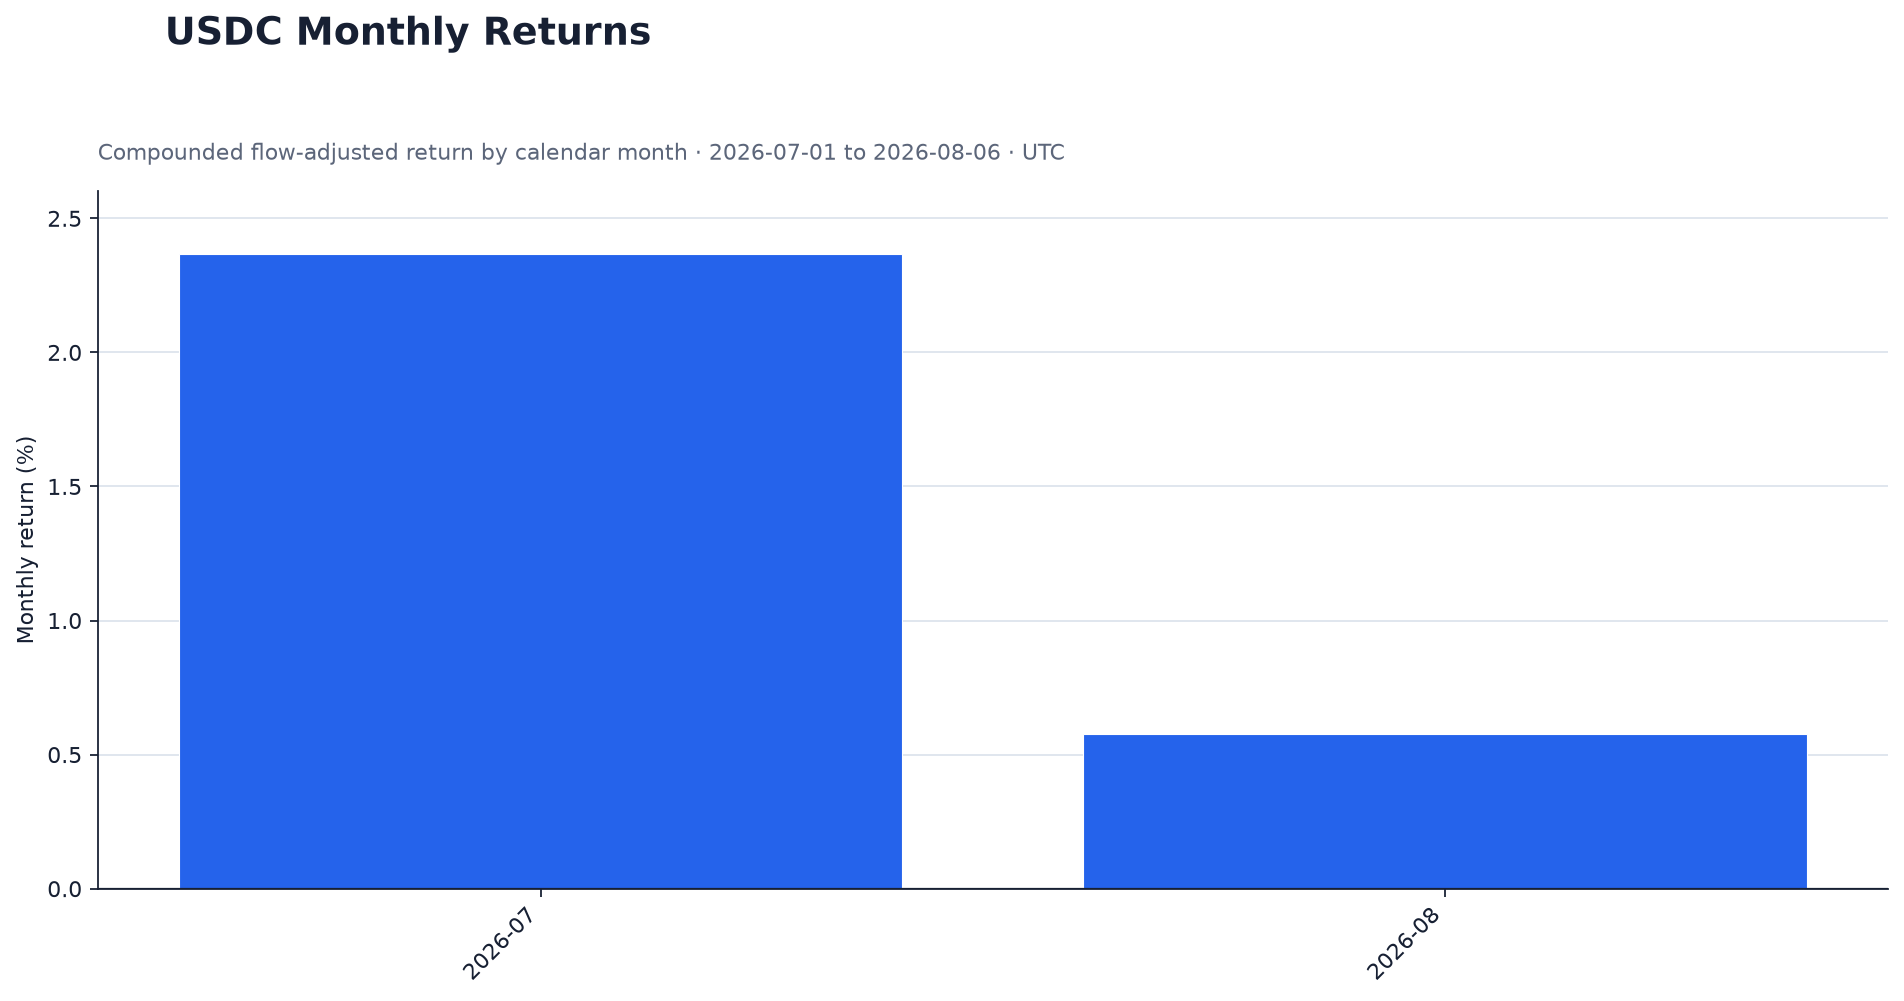
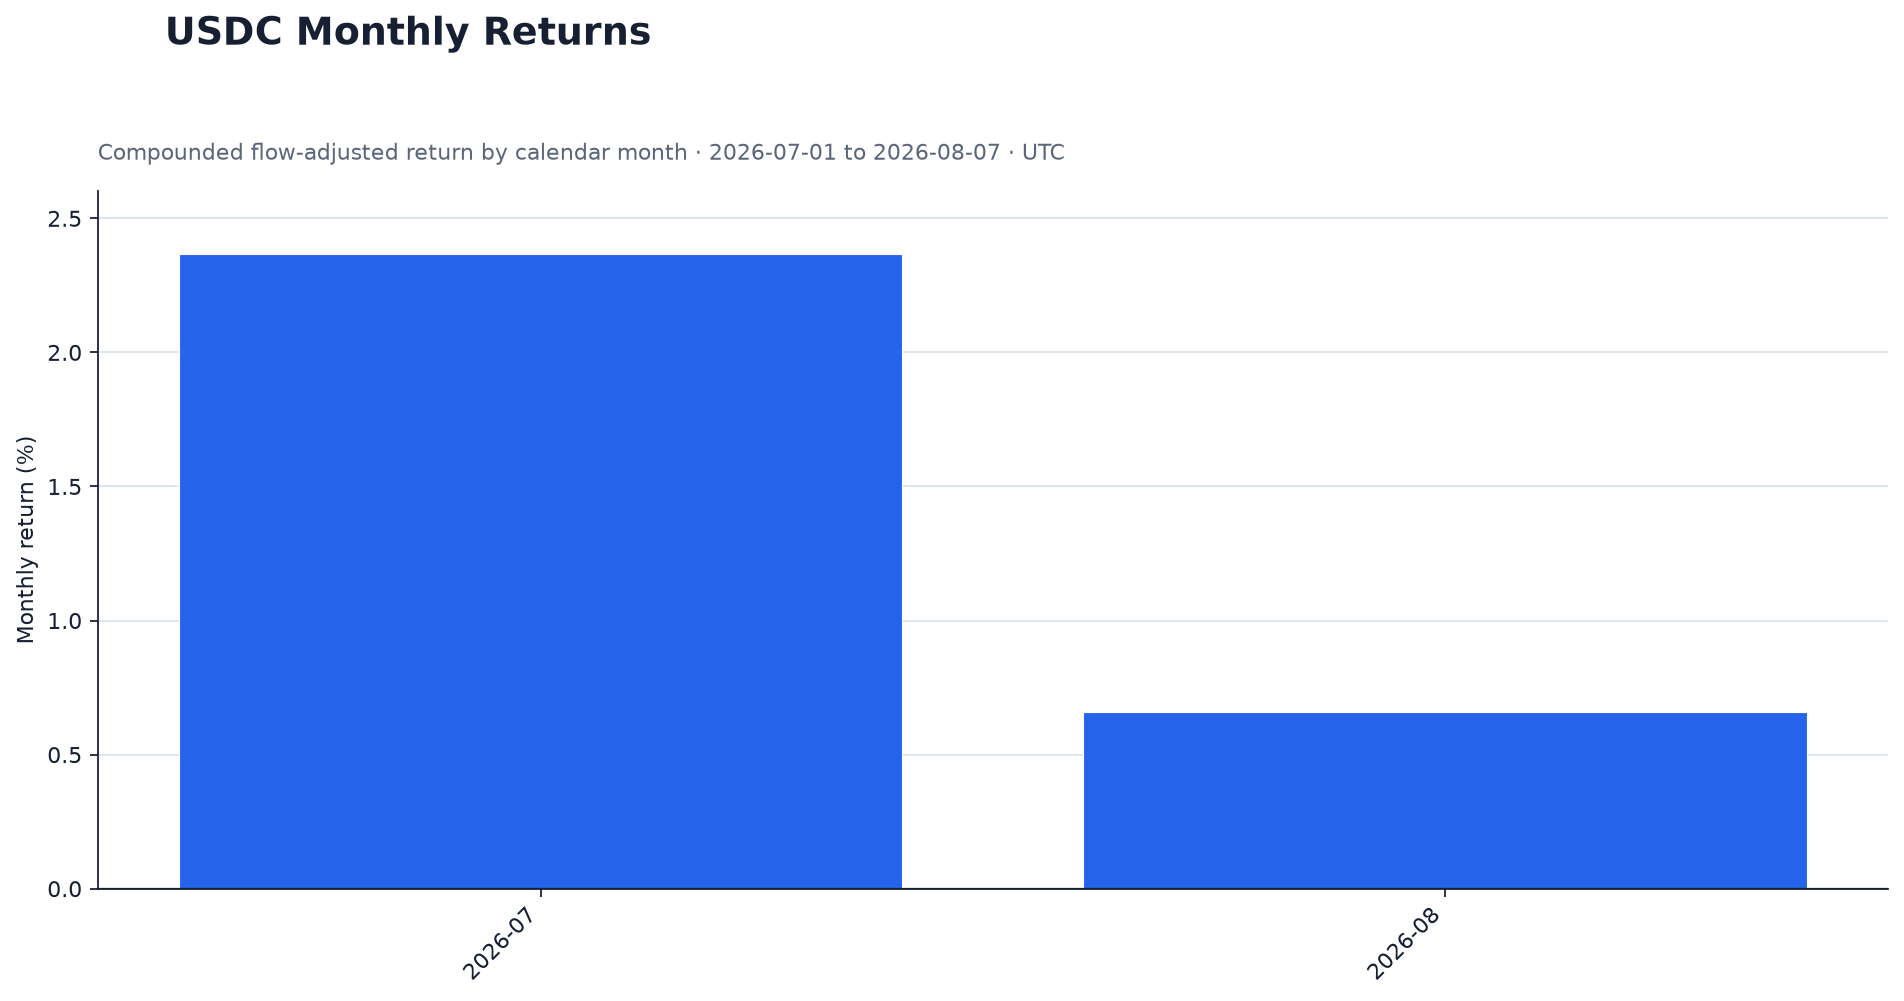
chore: update USDC performance

Changed region(s): [[0.5578, 0.7123, 0.9606, 0.7433]]

diff --git a/reports/performance_summary.md b/reports/performance_summary.md
@@ -1,7 +1,7 @@
 # Performance Summary
 
-Generated at: **2026-08-06T05:47:45Z**<br>
-Coverage: **2026-07-01 to 2026-08-06 (UTC)**<br>
+Generated at: **2026-08-07T00:10:07Z**<br>
+Coverage: **2026-07-01 to 2026-08-07 (UTC)**<br>
 Scope: **Daily USDC USD-M Futures realized performance**
 
 Absolute account values are not published. USD-M Futures transfers are excluded from trading return.
@@ -9,23 +9,23 @@ Sharpe and Sortino use private total daily returns including unrealized PnL; unr
 
 | Metric | Value |
 |---|---:|
-| Cumulative Return | 2.96% |
-| Latest Daily Return | 0.02% |
-| Annualized Return | 36.71% |
-| Annualized Volatility | 1.37% |
-| Sharpe Ratio | 5.623300 |
-| Sortino Ratio | 9.981135 |
+| Cumulative Return | 3.04% |
+| Latest Daily Return | 0.00% |
+| Annualized Return | 36.64% |
+| Annualized Volatility | 1.36% |
+| Sharpe Ratio | 5.721263 |
+| Sortino Ratio | 10.150423 |
 | Maximum Drawdown | -0.01% |
-| Calmar Ratio | 4019.364407 |
-| Win Rate | 96.55% |
-| Profit Factor | 1197.070573 |
-| Total Realized Pnl Usdc | 129.484099 |
+| Calmar Ratio | 4011.427138 |
+| Win Rate | 96.67% |
+| Profit Factor | 1231.145563 |
+| Total Realized Pnl Usdc | 133.137399 |
 | Total Commission Usdc | -0.075227 |
-| Total Funding Fee Usdc | 1.623459 |
-| Total Net Pnl Usdc | 131.032330 |
-| Number Of Trading Days | 29 |
-| Number Of Trades | 937 |
-| Valid Return Days | 34 |
+| Total Funding Fee Usdc | 1.703154 |
+| Total Net Pnl Usdc | 134.765325 |
+| Number Of Trading Days | 30 |
+| Number Of Trades | 957 |
+| Valid Return Days | 35 |
 | Excluded Return Days | 3 |
 | Annualization Factor | 365 |
 
